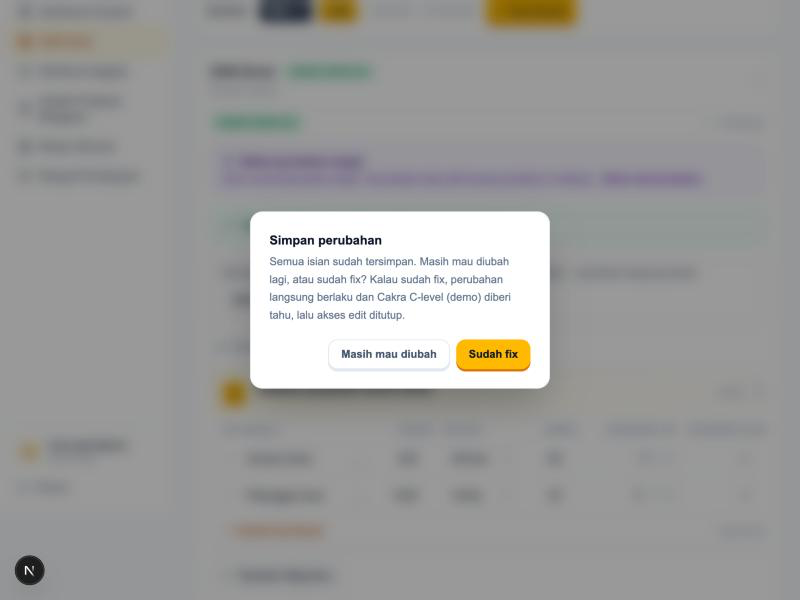
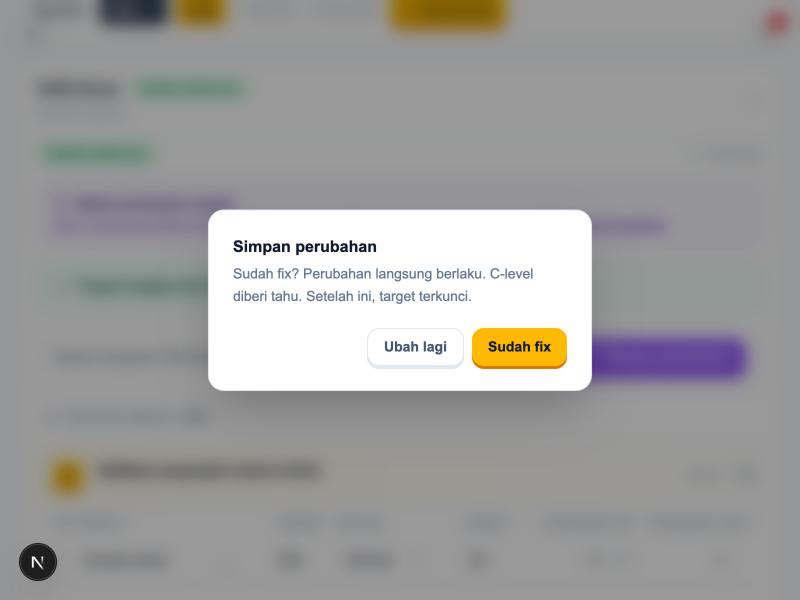
Laporan: kalimat simulasi & bukti M4-D dipersingkat, tanpa nama orang (22 Okt)

diff --git a/index.html b/index.html
@@ -145,7 +145,7 @@ dialog::backdrop { background: rgba(0,0,0,.7); }
 </div>
 <dialog id="zoom"><img alt=""></dialog>
 
-<script id="status" type="application/json">{"diperbarui":"2026-10-22T10:00:00+07:00","diperbaruiOleh":"Claude (pasang perubahan database M4-D ke dev)","proyek":"Redesign OKR Tracker Jakmall","rilis":{"dirilis":false,"teks":"Redesign belum dirilis; production masih versi lama. Semua hasil di bawah baru berjalan di lingkungan pengembangan (dev) dengan data contoh."},"ringkasan":"Alur inti OKR tersedia di lingkungan pengembangan. Codex mencoba dashboard, filter anggota, dan pergantian peran di Mac dengan data rekaan. Rilis belum siap: pemeriksaan akses belum lengkap, penyiapan akun perlu memisahkan identitas asli dari kode, dan keputusan cakupan serta pemeriksaan hosting masih menunggu.","sedangDikerjakan":{"judul":"Menu Persetujuan & izin ubah target selesai di lingkungan uji","detail":"Setelah minggu ke-8 Lead wajib minta izin C-level (dengan alasan) sebelum mengubah target. Setelah diizinkan dan Lead memilih \"Sudah fix\", perubahan langsung berlaku dan C-level cukup menandai \"Sudah dilihat\". Menu Persetujuan kini 3 tab. Sudah dicoba langsung dengan data rekaan. Langkah berikutnya: izin untuk memasang perubahan struktur database ke database dev bersama.","mulai":"2026-10-20"},"sudahBisa":["Lead menyusun target OKR divisi dan mengajukannya ke C-level.","C-level menyetujui target atau mengembalikannya dengan catatan; perubahan target setelah disetujui juga lewat persetujuan.","Lead membagikan OKR ke tiap anggota; pengiriman ditahan kalau ada anggota yang belum siap.","Anggota mengonfirmasi OKR-nya atau mengajukan perubahan; Lead menyetujui atau mengembalikan.","Anggota mengisi progress mingguan (tenggat Jumat 17.00 WIB); Lead memantau siapa yang sudah dan belum, serta bisa mengoreksi dengan alasan.","Notifikasi di aplikasi (desktop dan HP) untuk OKR dibagikan, usulan perubahan, keputusan, dan koreksi.","Lead mengajukan hasil akhir quarter setelah quarter selesai (waktu WIB); C-level menyetujui atau mengembalikan; rekap tahunan memakai skor dari quarter yang sudah final.","Setelah minggu ke-8, Lead minta izin C-level (dengan alasan) sebelum mengubah target; setelah diizinkan dan disimpan \"Sudah fix\", perubahan langsung berlaku dan C-level menandai \"Sudah dilihat\". Menu Persetujuan terbagi 3 tab."],"persentase":{"metode":"jumlah-hasil","catatan":"Persentase = hasil selesai dan teruji di dev ÷ seluruh hasil dalam daftar × 100%. Setiap hasil berbobot sama; bukan persentase waktu, beban kerja, atau kesiapan production. Pekerjaan berjalan belum mendapat nilai sebagian. Jika cakupan berubah, jumlah pembagi ikut berubah."},"hasil":[{"id":"m0","kode":"M0","nama":"Dashboard Quarter","manfaat":"Ringkasan capaian divisi per quarter: capaian per objective, capaian anggota, dan hal yang perlu perhatian.","kelompok":"v1","status":"selesai-dev","tanggal":"2026-09-04","bukti":[{"file":"bukti/lead-dashboard.png","ket":"Dashboard Quarter sisi Lead (data contoh)","preview":"preview/?view=lead-dashboard"},{"file":"bukti/qa-mac-20261020-dashboard.png","ket":"QA Mac 20 Okt: dashboard Lead, seluruh isi data rekaan","preview":"preview/?view=lead-dashboard"}]},{"id":"m1","kode":"M1","nama":"Fondasi aplikasi","manfaat":"Menu dan istilah yang konsisten, akses sesuai peran (Lead, Anggota, C-level, Admin), keamanan data antar divisi, cetak PDF dan ekspor Excel.","kelompok":"v1","status":"selesai-dev","tanggal":"2026-09-08","bukti":[]},{"id":"m2-min","kode":"M2","nama":"Data organisasi — minimum yang dibutuhkan","manfaat":"Daftar divisi baku, penanggung jawab (Lead) dan approver per divisi, serta pemetaan data lama ke struktur baru.","kelompok":"v1","status":"selesai-dev","tanggal":"2026-09-08","catatan":"Sisa pekerjaan data organisasi dicatat terpisah di bawah.","bukti":[]},{"id":"m3a","kode":"M3-A","nama":"Susun target divisi","manfaat":"Lead membuat objective dan key result dengan pengecekan bobot dan kelengkapan sebelum diajukan.","kelompok":"v1","status":"selesai-dev","tanggal":"2026-09-09","bukti":[{"file":"bukti/lead-okr-divisi.png","ket":"OKR Divisi yang sudah disetujui (data contoh)","preview":"preview/?view=lead-okr-divisi"}]},{"id":"m3b","kode":"M3-B","nama":"Ajukan target ke C-level","manfaat":"Target dikirim ke approver yang ditetapkan per divisi, lalu terkunci selama diperiksa.","kelompok":"v1","status":"selesai-dev","tanggal":"2026-09-09","bukti":[]},{"id":"m4a","kode":"M4-A","nama":"Persetujuan C-level","manfaat":"C-level menyetujui target atau mengembalikannya dengan catatan wajib.","kelompok":"v1","status":"selesai-dev","tanggal":"2026-09-09","bukti":[]},{"id":"m4bc","kode":"M4-B/C","nama":"Ajukan perubahan target yang sudah disetujui","manfaat":"Target yang sudah jadi patokan hanya bisa diubah lewat persetujuan C-level, dengan tampilan versi lama dan baru. Progress anggota tidak hilang.","kelompok":"v1","status":"selesai-dev","tanggal":"2026-09-12","bukti":[]},{"id":"m5a","kode":"M5-A","nama":"Bagikan OKR ke anggota","manfaat":"Lead mengirim OKR individu ke anggota; pengiriman ditahan seluruhnya kalau ada penerima yang belum siap.","kelompok":"v1","status":"selesai-dev","tanggal":"2026-09-21","bukti":[{"file":"bukti/lead-distribusi.png","ket":"Distribusi sudah dikirim dan terkunci (data contoh)","preview":"preview/?view=lead-distribusi"}]},{"id":"m5b","kode":"M5-B","nama":"Konfirmasi atau ajukan perubahan oleh anggota","manfaat":"Anggota menyetujui OKR-nya atau mengusulkan perubahan (termasuk KR pribadi \"Lainnya\"); Lead memutuskan.","kelompok":"v1","status":"selesai-dev","tanggal":"2026-09-27","bukti":[{"file":"bukti/anggota-okr.png","ket":"OKR Individu sisi anggota (data contoh)","preview":"preview/?view=anggota-okr"}]},{"id":"m5c","kode":"M5-C","nama":"Update progress mingguan","manfaat":"Anggota mengisi progress dan status tiap minggu; Lead memantau kelengkapan dan bisa mengoreksi dengan alasan yang tercatat.","kelompok":"v1","status":"selesai-dev","tanggal":"2026-09-28","catatan":"Laporan Bulanan dicatat terpisah. QA Mac 20 Okt: simpan angka tetap dihitung sebagai satu update dan tetap tercatat setelah reload (data rekaan). Alurnya sesuai yang dibutuhkan?","bukti":[{"file":"bukti/lead-workboard.png","ket":"Pemantauan update mingguan oleh Lead (data contoh)","preview":"preview/?view=lead-workboard"},{"file":"bukti/qa-mac-20261020-workboard.png","ket":"QA Mac 20 Okt: filter Budi menampilkan lima KR miliknya, data rekaan","preview":"preview/?view=lead-workboard"},{"file":"bukti/qa-mac-20261020-anggota.png","ket":"QA Mac 20 Okt: satu dari lima KR sudah diupdate, tetap tersimpan setelah reload, data rekaan","preview":"preview/?view=anggota-okr"}]},{"id":"rilis-v1","kode":"Rilis","nama":"Rilis redesign v1 ke production","manfaat":"Versi baru dipakai seluruh karyawan: backup data, pemindahan data bertahap, uji semua peran di production.","kelompok":"v1","status":"belum","catatan":"Rencana rilis revisi 3 sudah menutup catatan tinjauan. Baru dibuat (lokal, belum ditinjau, belum pernah dijalankan ke production): jalur aman untuk menjalankan skrip data di production yang hanya menulis rencana persis yang sudah direview. Belum siap rilis: daftar peserta HR belum ada, pemeriksaan hosting belum dilakukan, keputusan cakupan belum diambil.","bukti":[]},{"id":"m4d","kode":"M4-D","nama":"Menu Persetujuan 3 tab & izin ubah target setelah minggu ke-8","manfaat":"Setelah minggu ke-8, Lead tidak bisa diam-diam mengubah target: ia minta izin C-level dulu dengan alasan. Setelah diizinkan, Lead mengedit, menyimpan, dan perubahan langsung berlaku; C-level melihat sebelum/sesudah lalu menandai \"Sudah dilihat\". Menu Persetujuan kini terbagi 3 tab: Target, Perubahan, Hasil Akhir.","kelompok":"v1","status":"selesai-dev","catatan":"Teruji dengan data rekaan (tes otomatis + dicoba langsung di browser sebagai Lead dan C-level). Perubahan struktur database sudah dipasang di database dev bersama (22 Okt). Belum dirilis ke production.","bukti":[{"file":"bukti/m4d-1-lead-minta-izin.png","ket":"1. Lewat minggu ke-8: Lead mengisi alasan untuk minta izin ubah target (data rekaan; tautan simulasi menampilkan halaman OKR Divisi — simulasi menu Persetujuan belum ada)","preview":"preview/?view=lead-okr-divisi"},{"file":"bukti/m4d-2-clevel-izinkan.png","ket":"2. C-level melihat permintaan + alasan, lalu Izinkan atau Tolak (data rekaan; tautan simulasi menampilkan halaman OKR Divisi — simulasi menu Persetujuan belum ada)","preview":"preview/?view=lead-okr-divisi"},{"file":"bukti/m4d-3-lead-sudah-fix.png","ket":"3. Lead selesai mengedit: Simpan perubahan → pilih Masih mau diubah atau Sudah fix (data rekaan; tautan simulasi menampilkan halaman OKR Divisi — simulasi menu Persetujuan belum ada)","preview":"preview/?view=lead-okr-divisi"},{"file":"bukti/m4d-4-clevel-sebelum-sesudah.png","ket":"4. Perubahan langsung berlaku; C-level melihat sebelum/sesudah (target 500 → 400) dan menandai Sudah dilihat (data rekaan; tautan simulasi menampilkan halaman OKR Divisi — simulasi menu Persetujuan belum ada)","preview":"preview/?view=lead-okr-divisi"}],"tanggal":"2026-10-20","pertanyaan":"Alurnya sudah benar begini? (minta izin dengan alasan → C-level izinkan → Lead edit → Sudah fix → langsung berlaku, C-level cukup lihat)"},{"id":"m5d","kode":"M5-D","nama":"Notifikasi & pengingat","manfaat":"Lonceng notifikasi di aplikasi, email pendamping, dan pengingat update mingguan yang diatur Admin.","kelompok":"lengkap","status":"berjalan","catatan":"Status: pemicu siap, penjadwalan live belum diaktifkan. Kunci wajib, anti-kirim-dobel, dan pemulihan aman kalau proses terputus sudah diterapkan dan diuji di dev. Butuh pemicu terjadwal sungguhan di production (izin deploy).","bukti":[{"file":"bukti/lead-lonceng.png","ket":"Lonceng notifikasi Lead (data contoh)","preview":"preview/?view=lead-lonceng"},{"file":"bukti/anggota-hp-lonceng.png","ket":"Lonceng notifikasi di HP, sisi anggota (data contoh)","preview":"preview/?view=anggota-hp-lonceng"}]},{"id":"laporan-bulanan","kode":"Laporan","nama":"Laporan Bulanan","manfaat":"Ringkasan progress per bulan dari data mingguan, tanpa input ulang. Lead lihat lewat tab di halaman Update Progress Mingguan; C-level dan Admin lewat halaman baca-saja tersendiri.","kelompok":"lengkap","status":"selesai-dev","tanggal":"2026-09-29","catatan":"Sudah diuji di dev (19 tes otomatis + dicoba langsung sebagai Lead dan C-level, angkanya sama persis di kedua sisi). Belum tersedia di production.","bukti":[]},{"id":"m6a","kode":"M6-A","nama":"Ajukan hasil akhir quarter","manfaat":"Lead merangkum dan mengajukan hasil akhir quarter.","kelompok":"lengkap","status":"selesai-dev","bukti":[],"catatan":"Selesai di dev, belum production. Teruji di database pengembangan sungguhan dengan dua koneksi terpisah, akses antar peran, dan rekap tahunan. Belum diuji: performa untuk banyak divisi. Notifikasi saat hasil diajukan atau diputuskan belum dibuat. Cadangan/pemulihan database dev belum terverifikasi.","tanggal":"2026-10-08"},{"id":"m6b","kode":"M6-B","nama":"Finalisasi hasil oleh C-level","manfaat":"C-level menyetujui hasil akhir atau mengembalikannya dengan catatan.","kelompok":"lengkap","status":"selesai-dev","bukti":[],"catatan":"Selesai di dev, belum production. Teruji di database pengembangan sungguhan dengan dua koneksi terpisah, akses antar peran, dan rekap tahunan. Belum diuji: performa untuk banyak divisi. Notifikasi saat hasil diajukan atau diputuskan belum dibuat. Cadangan/pemulihan database dev belum terverifikasi.","tanggal":"2026-10-08"},{"id":"m6c","kode":"M6-C","nama":"Rekap tahunan","manfaat":"Capaian Q1–Q4 dalam satu tahun; skor tahunan dari quarter yang sudah final.","kelompok":"lengkap","status":"selesai-dev","bukti":[],"catatan":"Selesai di dev, belum production. Teruji di database pengembangan sungguhan dengan dua koneksi terpisah, akses antar peran, dan rekap tahunan. Belum diuji: performa untuk banyak divisi. Notifikasi saat hasil diajukan atau diputuskan belum dibuat. Cadangan/pemulihan database dev belum terverifikasi.","tanggal":"2026-10-08"},{"id":"m6d","kode":"M6-D","nama":"Laporan & ekspor untuk HR dan C-level","manfaat":"Tarikan progress mingguan HR, laporan per divisi/quarter, histori persetujuan dan perubahan.","kelompok":"lengkap","status":"selesai-dev","catatan":"Selesai di dev, belum production. Teruji di database pengembangan dengan data uji sintetis: status divisi di dasbor, ekspor dan cetak hasil final dari snapshot, rekap tahunan yang bisa diekspor, riwayat persetujuan terpusat, dan akses C-level baca saja ke semua divisi. Belum: notifikasi saat laporan tersedia, performa untuk banyak divisi (17 divisi di jaringan lambat ±18 detik).","bukti":[],"tanggal":"2026-10-08"},{"id":"m6e","kode":"M6-E","nama":"Perapian & validasi akhir","manfaat":"Menyatukan rumus dan format angka, membersihkan sisa sistem lama, uji ulang seluruh peran.","kelompok":"lengkap","status":"berjalan","catatan":"Selesai lokal: satu rumus skor divisi dipakai di semua halaman/laporan, semua persen tampil 1 desimal dengan koma (dicek di aplikasi dev). Draf aturan database dan penghapusan kolom lama sudah ditulis tetapi TIDAK diterapkan; pemeriksaan awal di dev menemukan data lama yang belum rapi, dan halaman admin masih memakai kolom lama. Butuh izin migrasi.","bukti":[]},{"id":"m2-sisa","kode":"M2","nama":"Data organisasi — sisa","manfaat":"Akun untuk seluruh peserta dan kerapian data lama yang belum terpetakan.","kelompok":"lengkap","status":"berjalan","bukti":[],"catatan":"Perencana akun semua peserta sudah ada (hanya menghasilkan rencana, tidak membuat akun; 9 tes). Menunggu daftar peserta resmi dari HR."}],"kendala":[{"judul":"Demo interaktif: teruji lokal, belum dipublikasikan","detail":"Teruji lokal; belum dipublikasikan; server uji sudah dihentikan. Untuk menayangkan butuh keputusan hosting (paket berbayar ±$20/bulan karena untuk keperluan perusahaan), database demo terpisah, project deploy terpisah, dan push kode demo.","jenis":"izin"},{"judul":"Pengingat otomatis belum berjalan sendiri","detail":"Kode dan pengamanannya sudah diterapkan dan diuji di dev. Pengingat mingguan tetap butuh pemicu terjadwal sungguhan di server production; pembuatannya butuh izin deploy.","jenis":"izin"},{"judul":"Pemeriksaan hosting belum selesai","detail":"Kode pengaman sudah diperbaiki dan tesnya lulus; pemilik hosting tetap perlu memastikan pemisahan lingkungan sebelum rilis.","jenis":"izin"}],"keputusanDibutuhkan":["Demo interaktif: setuju hosting berbayar (±$20/bulan), resource baru, push repo demo, dan deploy? Belum ada yang dibuat.","Aturan pasti \"KR merah\" dan jadwal ringkasan pengingat (dari manajemen)."],"langkahBerikutnya":["Pemilik proyek: cek alur M4-D di website report (4 gambar) — cukup jawab \"alurnya benar\" atau sebutkan yang perlu diubah.","Pemilik hosting memeriksa pengaturan; daftar peserta resmi disiapkan HR. Rilis tetap perlu izin per tahap."],"commitAplikasi":"742b1b1","olehDefault":"Lathisya"}</script>
+<script id="status" type="application/json">{"diperbarui":"2026-10-22T10:00:00+07:00","diperbaruiOleh":"Claude (pasang perubahan database M4-D ke dev)","proyek":"Redesign OKR Tracker Jakmall","rilis":{"dirilis":false,"teks":"Redesign belum dirilis; production masih versi lama. Semua hasil di bawah baru berjalan di lingkungan pengembangan (dev) dengan data contoh."},"ringkasan":"Alur inti OKR tersedia di lingkungan pengembangan. Codex mencoba dashboard, filter anggota, dan pergantian peran di Mac dengan data rekaan. Rilis belum siap: pemeriksaan akses belum lengkap, penyiapan akun perlu memisahkan identitas asli dari kode, dan keputusan cakupan serta pemeriksaan hosting masih menunggu.","sedangDikerjakan":{"judul":"Menu Persetujuan & izin ubah target selesai di lingkungan uji","detail":"Setelah minggu ke-8 Lead wajib minta izin C-level (dengan alasan) sebelum mengubah target. Setelah diizinkan dan Lead memilih \"Sudah fix\", perubahan langsung berlaku dan C-level cukup menandai \"Sudah dilihat\". Menu Persetujuan kini 3 tab. Sudah dicoba langsung dengan data rekaan. Langkah berikutnya: izin untuk memasang perubahan struktur database ke database dev bersama.","mulai":"2026-10-20"},"sudahBisa":["Lead menyusun target OKR divisi dan mengajukannya ke C-level.","C-level menyetujui target atau mengembalikannya dengan catatan; perubahan target setelah disetujui juga lewat persetujuan.","Lead membagikan OKR ke tiap anggota; pengiriman ditahan kalau ada anggota yang belum siap.","Anggota mengonfirmasi OKR-nya atau mengajukan perubahan; Lead menyetujui atau mengembalikan.","Anggota mengisi progress mingguan (tenggat Jumat 17.00 WIB); Lead memantau siapa yang sudah dan belum, serta bisa mengoreksi dengan alasan.","Notifikasi di aplikasi (desktop dan HP) untuk OKR dibagikan, usulan perubahan, keputusan, dan koreksi.","Lead mengajukan hasil akhir quarter setelah quarter selesai (waktu WIB); C-level menyetujui atau mengembalikan; rekap tahunan memakai skor dari quarter yang sudah final.","Setelah minggu ke-8, Lead minta izin C-level (dengan alasan) sebelum mengubah target; setelah diizinkan dan disimpan \"Sudah fix\", perubahan langsung berlaku dan C-level menandai \"Sudah dilihat\". Menu Persetujuan terbagi 3 tab."],"persentase":{"metode":"jumlah-hasil","catatan":"Persentase = hasil selesai dan teruji di dev ÷ seluruh hasil dalam daftar × 100%. Setiap hasil berbobot sama; bukan persentase waktu, beban kerja, atau kesiapan production. Pekerjaan berjalan belum mendapat nilai sebagian. Jika cakupan berubah, jumlah pembagi ikut berubah."},"hasil":[{"id":"m0","kode":"M0","nama":"Dashboard Quarter","manfaat":"Ringkasan capaian divisi per quarter: capaian per objective, capaian anggota, dan hal yang perlu perhatian.","kelompok":"v1","status":"selesai-dev","tanggal":"2026-09-04","bukti":[{"file":"bukti/lead-dashboard.png","ket":"Dashboard Quarter sisi Lead (data contoh)","preview":"preview/?view=lead-dashboard"},{"file":"bukti/qa-mac-20261020-dashboard.png","ket":"QA Mac 20 Okt: dashboard Lead, seluruh isi data rekaan","preview":"preview/?view=lead-dashboard"}]},{"id":"m1","kode":"M1","nama":"Fondasi aplikasi","manfaat":"Menu dan istilah yang konsisten, akses sesuai peran (Lead, Anggota, C-level, Admin), keamanan data antar divisi, cetak PDF dan ekspor Excel.","kelompok":"v1","status":"selesai-dev","tanggal":"2026-09-08","bukti":[]},{"id":"m2-min","kode":"M2","nama":"Data organisasi — minimum yang dibutuhkan","manfaat":"Daftar divisi baku, penanggung jawab (Lead) dan approver per divisi, serta pemetaan data lama ke struktur baru.","kelompok":"v1","status":"selesai-dev","tanggal":"2026-09-08","catatan":"Sisa pekerjaan data organisasi dicatat terpisah di bawah.","bukti":[]},{"id":"m3a","kode":"M3-A","nama":"Susun target divisi","manfaat":"Lead membuat objective dan key result dengan pengecekan bobot dan kelengkapan sebelum diajukan.","kelompok":"v1","status":"selesai-dev","tanggal":"2026-09-09","bukti":[{"file":"bukti/lead-okr-divisi.png","ket":"OKR Divisi yang sudah disetujui (data contoh)","preview":"preview/?view=lead-okr-divisi"}]},{"id":"m3b","kode":"M3-B","nama":"Ajukan target ke C-level","manfaat":"Target dikirim ke approver yang ditetapkan per divisi, lalu terkunci selama diperiksa.","kelompok":"v1","status":"selesai-dev","tanggal":"2026-09-09","bukti":[]},{"id":"m4a","kode":"M4-A","nama":"Persetujuan C-level","manfaat":"C-level menyetujui target atau mengembalikannya dengan catatan wajib.","kelompok":"v1","status":"selesai-dev","tanggal":"2026-09-09","bukti":[]},{"id":"m4bc","kode":"M4-B/C","nama":"Ajukan perubahan target yang sudah disetujui","manfaat":"Target yang sudah jadi patokan hanya bisa diubah lewat persetujuan C-level, dengan tampilan versi lama dan baru. Progress anggota tidak hilang.","kelompok":"v1","status":"selesai-dev","tanggal":"2026-09-12","bukti":[]},{"id":"m5a","kode":"M5-A","nama":"Bagikan OKR ke anggota","manfaat":"Lead mengirim OKR individu ke anggota; pengiriman ditahan seluruhnya kalau ada penerima yang belum siap.","kelompok":"v1","status":"selesai-dev","tanggal":"2026-09-21","bukti":[{"file":"bukti/lead-distribusi.png","ket":"Distribusi sudah dikirim dan terkunci (data contoh)","preview":"preview/?view=lead-distribusi"}]},{"id":"m5b","kode":"M5-B","nama":"Konfirmasi atau ajukan perubahan oleh anggota","manfaat":"Anggota menyetujui OKR-nya atau mengusulkan perubahan (termasuk KR pribadi \"Lainnya\"); Lead memutuskan.","kelompok":"v1","status":"selesai-dev","tanggal":"2026-09-27","bukti":[{"file":"bukti/anggota-okr.png","ket":"OKR Individu sisi anggota (data contoh)","preview":"preview/?view=anggota-okr"}]},{"id":"m5c","kode":"M5-C","nama":"Update progress mingguan","manfaat":"Anggota mengisi progress dan status tiap minggu; Lead memantau kelengkapan dan bisa mengoreksi dengan alasan yang tercatat.","kelompok":"v1","status":"selesai-dev","tanggal":"2026-09-28","catatan":"Laporan Bulanan dicatat terpisah. QA Mac 20 Okt: simpan angka tetap dihitung sebagai satu update dan tetap tercatat setelah reload (data rekaan). Alurnya sesuai yang dibutuhkan?","bukti":[{"file":"bukti/lead-workboard.png","ket":"Pemantauan update mingguan oleh Lead (data contoh)","preview":"preview/?view=lead-workboard"},{"file":"bukti/qa-mac-20261020-workboard.png","ket":"QA Mac 20 Okt: filter Budi menampilkan lima KR miliknya, data rekaan","preview":"preview/?view=lead-workboard"},{"file":"bukti/qa-mac-20261020-anggota.png","ket":"QA Mac 20 Okt: satu dari lima KR sudah diupdate, tetap tersimpan setelah reload, data rekaan","preview":"preview/?view=anggota-okr"}]},{"id":"rilis-v1","kode":"Rilis","nama":"Rilis redesign v1 ke production","manfaat":"Versi baru dipakai seluruh karyawan: backup data, pemindahan data bertahap, uji semua peran di production.","kelompok":"v1","status":"belum","catatan":"Rencana rilis revisi 3 sudah menutup catatan tinjauan. Baru dibuat (lokal, belum ditinjau, belum pernah dijalankan ke production): jalur aman untuk menjalankan skrip data di production yang hanya menulis rencana persis yang sudah direview. Belum siap rilis: daftar peserta HR belum ada, pemeriksaan hosting belum dilakukan, keputusan cakupan belum diambil.","bukti":[]},{"id":"m4d","kode":"M4-D","nama":"Menu Persetujuan 3 tab & izin ubah target","manfaat":"Lewat minggu ke-8, Lead harus minta izin C-level dulu untuk mengubah target. Setelah diizinkan, Lead mengubah lalu klik Sudah fix — langsung berlaku. C-level cukup menandai Sudah dilihat.","kelompok":"v1","status":"selesai-dev","catatan":"Dicoba dengan data contoh. Sudah terpasang di database dev. Belum dirilis.","bukti":[{"file":"bukti/m4d-1-lead-minta-izin.png","ket":"1. Lead minta izin + alasan (data contoh)","preview":"preview/?view=lead-okr-divisi"},{"file":"bukti/m4d-2-clevel-izinkan.png","ket":"2. C-level mengizinkan atau menolak (data contoh)","preview":"preview/?view=lead-okr-divisi"},{"file":"bukti/m4d-3-lead-sudah-fix.png","ket":"3. Lead selesai mengubah, pilih Sudah fix (data contoh)","preview":"preview/?view=lead-okr-divisi"},{"file":"bukti/m4d-4-clevel-sebelum-sesudah.png","ket":"4. Langsung berlaku; C-level melihat sebelum/sesudah (data contoh)","preview":"preview/?view=lead-okr-divisi"}],"tanggal":"2026-10-20","pertanyaan":"Alurnya sudah benar begini?"},{"id":"m5d","kode":"M5-D","nama":"Notifikasi & pengingat","manfaat":"Lonceng notifikasi di aplikasi, email pendamping, dan pengingat update mingguan yang diatur Admin.","kelompok":"lengkap","status":"berjalan","catatan":"Status: pemicu siap, penjadwalan live belum diaktifkan. Kunci wajib, anti-kirim-dobel, dan pemulihan aman kalau proses terputus sudah diterapkan dan diuji di dev. Butuh pemicu terjadwal sungguhan di production (izin deploy).","bukti":[{"file":"bukti/lead-lonceng.png","ket":"Lonceng notifikasi Lead (data contoh)","preview":"preview/?view=lead-lonceng"},{"file":"bukti/anggota-hp-lonceng.png","ket":"Lonceng notifikasi di HP, sisi anggota (data contoh)","preview":"preview/?view=anggota-hp-lonceng"}]},{"id":"laporan-bulanan","kode":"Laporan","nama":"Laporan Bulanan","manfaat":"Ringkasan progress per bulan dari data mingguan, tanpa input ulang. Lead lihat lewat tab di halaman Update Progress Mingguan; C-level dan Admin lewat halaman baca-saja tersendiri.","kelompok":"lengkap","status":"selesai-dev","tanggal":"2026-09-29","catatan":"Sudah diuji di dev (19 tes otomatis + dicoba langsung sebagai Lead dan C-level, angkanya sama persis di kedua sisi). Belum tersedia di production.","bukti":[]},{"id":"m6a","kode":"M6-A","nama":"Ajukan hasil akhir quarter","manfaat":"Lead merangkum dan mengajukan hasil akhir quarter.","kelompok":"lengkap","status":"selesai-dev","bukti":[],"catatan":"Selesai di dev, belum production. Teruji di database pengembangan sungguhan dengan dua koneksi terpisah, akses antar peran, dan rekap tahunan. Belum diuji: performa untuk banyak divisi. Notifikasi saat hasil diajukan atau diputuskan belum dibuat. Cadangan/pemulihan database dev belum terverifikasi.","tanggal":"2026-10-08"},{"id":"m6b","kode":"M6-B","nama":"Finalisasi hasil oleh C-level","manfaat":"C-level menyetujui hasil akhir atau mengembalikannya dengan catatan.","kelompok":"lengkap","status":"selesai-dev","bukti":[],"catatan":"Selesai di dev, belum production. Teruji di database pengembangan sungguhan dengan dua koneksi terpisah, akses antar peran, dan rekap tahunan. Belum diuji: performa untuk banyak divisi. Notifikasi saat hasil diajukan atau diputuskan belum dibuat. Cadangan/pemulihan database dev belum terverifikasi.","tanggal":"2026-10-08"},{"id":"m6c","kode":"M6-C","nama":"Rekap tahunan","manfaat":"Capaian Q1–Q4 dalam satu tahun; skor tahunan dari quarter yang sudah final.","kelompok":"lengkap","status":"selesai-dev","bukti":[],"catatan":"Selesai di dev, belum production. Teruji di database pengembangan sungguhan dengan dua koneksi terpisah, akses antar peran, dan rekap tahunan. Belum diuji: performa untuk banyak divisi. Notifikasi saat hasil diajukan atau diputuskan belum dibuat. Cadangan/pemulihan database dev belum terverifikasi.","tanggal":"2026-10-08"},{"id":"m6d","kode":"M6-D","nama":"Laporan & ekspor untuk HR dan C-level","manfaat":"Tarikan progress mingguan HR, laporan per divisi/quarter, histori persetujuan dan perubahan.","kelompok":"lengkap","status":"selesai-dev","catatan":"Selesai di dev, belum production. Teruji di database pengembangan dengan data uji sintetis: status divisi di dasbor, ekspor dan cetak hasil final dari snapshot, rekap tahunan yang bisa diekspor, riwayat persetujuan terpusat, dan akses C-level baca saja ke semua divisi. Belum: notifikasi saat laporan tersedia, performa untuk banyak divisi (17 divisi di jaringan lambat ±18 detik).","bukti":[],"tanggal":"2026-10-08"},{"id":"m6e","kode":"M6-E","nama":"Perapian & validasi akhir","manfaat":"Menyatukan rumus dan format angka, membersihkan sisa sistem lama, uji ulang seluruh peran.","kelompok":"lengkap","status":"berjalan","catatan":"Selesai lokal: satu rumus skor divisi dipakai di semua halaman/laporan, semua persen tampil 1 desimal dengan koma (dicek di aplikasi dev). Draf aturan database dan penghapusan kolom lama sudah ditulis tetapi TIDAK diterapkan; pemeriksaan awal di dev menemukan data lama yang belum rapi, dan halaman admin masih memakai kolom lama. Butuh izin migrasi.","bukti":[]},{"id":"m2-sisa","kode":"M2","nama":"Data organisasi — sisa","manfaat":"Akun untuk seluruh peserta dan kerapian data lama yang belum terpetakan.","kelompok":"lengkap","status":"berjalan","bukti":[],"catatan":"Perencana akun semua peserta sudah ada (hanya menghasilkan rencana, tidak membuat akun; 9 tes). Menunggu daftar peserta resmi dari HR."}],"kendala":[{"judul":"Demo interaktif: teruji lokal, belum dipublikasikan","detail":"Teruji lokal; belum dipublikasikan; server uji sudah dihentikan. Untuk menayangkan butuh keputusan hosting (paket berbayar ±$20/bulan karena untuk keperluan perusahaan), database demo terpisah, project deploy terpisah, dan push kode demo.","jenis":"izin"},{"judul":"Pengingat otomatis belum berjalan sendiri","detail":"Kode dan pengamanannya sudah diterapkan dan diuji di dev. Pengingat mingguan tetap butuh pemicu terjadwal sungguhan di server production; pembuatannya butuh izin deploy.","jenis":"izin"},{"judul":"Pemeriksaan hosting belum selesai","detail":"Kode pengaman sudah diperbaiki dan tesnya lulus; pemilik hosting tetap perlu memastikan pemisahan lingkungan sebelum rilis.","jenis":"izin"}],"keputusanDibutuhkan":["Demo interaktif: setuju hosting berbayar (±$20/bulan), resource baru, push repo demo, dan deploy? Belum ada yang dibuat.","Aturan pasti \"KR merah\" dan jadwal ringkasan pengingat (dari manajemen)."],"langkahBerikutnya":["Pemilik proyek: cek alur M4-D di website report (4 gambar) — cukup jawab \"alurnya benar\" atau sebutkan yang perlu diubah.","Pemilik hosting memeriksa pengaturan; daftar peserta resmi disiapkan HR. Rilis tetap perlu izin per tahap."],"commitAplikasi":"742b1b1","olehDefault":"Lathisya"}</script>
 <script>
 const S = JSON.parse(document.getElementById("status").textContent);
 const $ = (id) => document.getElementById(id);

diff --git a/preview/index.html b/preview/index.html
@@ -12,19 +12,19 @@
 <body>
 <div class="wrap">
   <div class="top"><div><div class="eyebrow">Simulasi interaktif · data contoh</div><h1 id="title">Preview OKR</h1><div class="hint" id="subtitle"></div></div><a class="back" href="../">← Kembali ke laporan progres</a></div>
-  <div class="notice"><b>Preview simulasi.</b> Tombol di halaman ini memperagakan alur. Tidak ada akun, penyimpanan, atau koneksi ke database OKR. Aplikasi yang dipakai karyawan belum online.</div>
-  <div class="shell"><nav class="nav" id="nav"><h2>Pilih tampilan</h2></nav><main class="content"><section class="panel"><div class="row"><div><div class="eyebrow" id="module"></div><div class="metric" id="headline"></div></div><span class="badge" id="role"></span></div><p id="description"></p><div class="steps" id="steps"></div><div class="feedback" id="feedback" role="status" aria-live="polite"></div><div class="demo-box" id="demo"></div></section><section class="picture"><h2>Bukti tampilan dari aplikasi dev</h2><div class="hint" id="caption"></div><img id="shot" alt="Bukti tampilan akun contoh"><p class="tiny">Gambar adalah bukti dari lingkungan pengembangan. Interaksi simulasi ada pada panel di atas.</p></section></main></div>
+  <div class="notice">Ini simulasi dengan data contoh. Klik tombol untuk mencoba alurnya. Perubahan tidak disimpan.</div>
+  <div class="shell"><nav class="nav" id="nav"><h2>Pilih tampilan</h2></nav><main class="content"><section class="panel"><div class="row"><div><div class="eyebrow" id="module"></div><div class="metric" id="headline"></div></div><span class="badge" id="role"></span></div><p id="description"></p><div class="steps" id="steps"></div><div class="feedback" id="feedback" role="status" aria-live="polite"></div><div class="demo-box" id="demo"></div></section><section class="picture"><h2>Bukti tampilan dari aplikasi dev</h2><div class="hint" id="caption"></div><img id="shot" alt="Bukti tampilan akun contoh"><p class="tiny">Gambar dari aplikasi uji. Coba simulasinya di atas.</p></section></main></div>
   <footer>Halaman ini memuat data contoh di browser saja. Tutup atau muat ulang untuk mengulang simulasi.</footer>
 </div>
 <script>
 const views = [
   {id: "lead-dashboard", label: "Dashboard Lead", code: "M0", role: "Lead · Demo M5", headline: "Capaian divisi Q4", caption: "Dashboard Quarter sisi Lead", shot: "lead-dashboard.png", description: "Pilih quarter untuk melihat ringkasan divisi dan hal yang perlu diperhatikan.", steps: ["Q4 2026", "Q3 2026"], feedback: ["Ringkasan Q4: 2 objective, 3 anggota, pembaruan mingguan terlihat.", "Quarter ini belum punya hasil final dalam simulasi."], demo: ["Objective aktif", "2", "Anggota", "3", "Update pekan ini", "3 dari 3 KR wajib"]},
-  {id: "lead-okr-divisi", label: "Target divisi", code: "M3–M4", role: "Lead · Demo M5", headline: "Target Q4 2026", caption: "OKR Divisi sisi Lead", shot: "lead-okr-divisi.png", description: "Lihat perbedaan draft, pengajuan, dan persetujuan. Ini hanya simulasi status.", steps: ["Draft", "Ajukan Target", "Disetujui"], feedback: ["Draft bisa diperiksa sebelum diajukan.", "Target diajukan: kolom terkunci sambil menunggu C-level.", "Target disetujui: patokan resmi terkunci."], demo: ["Objective", "Peningkatan layanan", "Key Result", "Respons tepat waktu", "Bobot", "100%"]},
-  {id: "lead-distribusi", label: "Distribusi anggota", code: "M5-A", role: "Lead · Demo M5", headline: "Bagikan OKR ke anggota", caption: "Distribusi anggota sisi Lead", shot: "lead-distribusi.png", description: "Coba gerbang kesiapan: pengiriman ditahan jika seorang anggota belum siap masuk aplikasi.", steps: ["Ada yang belum siap", "Semua siap", "Kirim ke Anggota"], feedback: ["Pengiriman ditahan seluruhnya. Satu anggota belum punya akses aktif.", "Semua penerima siap dan bobot individu 100%.", "Paket dibagikan bersama dan tampilan Lead terkunci."], demo: ["Anggota contoh", "Budi, Sari", "Paket", "1 pengiriman bersama", "Status", "Menunggu kesiapan"]},
-  {id: "anggota-okr", label: "OKR anggota", code: "M5-B", role: "Anggota · Demo M5", headline: "OKR Individu Q4", caption: "OKR Individu sisi anggota", shot: "anggota-okr.png", description: "Lihat alur menerima paket, mengonfirmasi, atau mengusulkan perubahan.", steps: ["Belum dibagikan", "Dibagikan", "Konfirmasi", "Ajukan Perubahan"], feedback: ["OKR belum dibagikan oleh Lead.", "Paket OKR tersedia untuk dibaca anggota.", "Anggota mengonfirmasi paket OKR.", "Usulan perubahan dikirim ke Lead untuk diperiksa."], demo: ["Key Result", "Respons layanan", "Target", "100%", "Bagian individu", "Dalam bobot 100%"]},
-  {id: "lead-workboard", label: "Progress mingguan", code: "M5-C", role: "Lead · Demo M5", headline: "Update pekan ini", caption: "Workboard sisi Lead", shot: "lead-workboard.png", description: "Pilih anggota untuk melihat status, lalu coba koreksi dengan alasan. Nilai pada preview hanya berubah di browser ini.", steps: ["Budi · sesuai rencana", "Sari · berisiko", "Koreksi dengan alasan"], feedback: ["Budi: 3 dari 3 KR wajib sudah diupdate.", "Sari: satu KR berisiko; Lead bisa melihat catatannya.", "Koreksi dicatat dengan alasan dan ditunjukkan kepada anggota."], demo: ["Kelengkapan", "3 dari 3 KR wajib", "Perlu perhatian", "1 status berisiko", "Batas rutin", "Jumat 17.00 WIB"]},
-  {id: "lead-lonceng", label: "Notifikasi Lead", code: "M5-D", role: "Lead · Demo M5", headline: "Pemberitahuan", caption: "Lonceng notifikasi sisi Lead", shot: "lead-lonceng.png", description: "Buka contoh notifikasi dan lihat ke mana Lead diarahkan.", steps: ["Belum dibaca (1)", "Buka usulan anggota", "Sudah dibaca"], feedback: ["Ada satu usulan perubahan dari anggota.", "Usulan anggota terbuka untuk ditinjau Lead.", "Penanda belum dibaca hilang setelah dibuka."], demo: ["Dari", "Sari · anggota", "Kejadian", "Usulan perubahan OKR", "Tujuan", "Halaman keputusan Lead"]},
-  {id: "anggota-hp-lonceng", label: "Notifikasi HP", code: "M5-D", role: "Anggota · Demo M5", headline: "Pemberitahuan di HP", caption: "Lonceng notifikasi sisi anggota di HP", shot: "anggota-hp-lonceng.png", description: "Coba alur koreksi Lead diterima oleh anggota melalui notifikasi.", steps: ["Belum dibaca (1)", "Buka koreksi", "Sudah dibaca"], feedback: ["Koreksi Lead muncul sebagai notifikasi belum dibaca.", "Anggota melihat angka dan alasan koreksi di OKR Individu.", "Penanda notifikasi hilang setelah dibuka."], demo: ["Dari", "Lead · Demo M5", "Kejadian", "Koreksi progress", "Alasan", "Tercatat dalam histori"]}
+  {id: "lead-okr-divisi", label: "Target divisi", code: "M3–M4", role: "Lead · Demo M5", headline: "Target Q4 2026", caption: "OKR Divisi sisi Lead", shot: "lead-okr-divisi.png", description: "Klik tombol untuk melihat tiap status.", steps: ["Draft", "Ajukan Target", "Disetujui"], feedback: ["Masih draft — belum dikirim ke C-level.", "Menunggu persetujuan C-level. Target belum bisa diubah.", "Target disetujui. Untuk mengubahnya, klik Ajukan Perubahan."], demo: ["Objective", "Peningkatan layanan", "Key Result", "Respons tepat waktu", "Bobot", "100%"]},
+  {id: "lead-distribusi", label: "Distribusi anggota", code: "M5-A", role: "Lead · Demo M5", headline: "Bagikan OKR ke anggota", caption: "Distribusi anggota sisi Lead", shot: "lead-distribusi.png", description: "OKR baru bisa dikirim kalau semua anggota punya akses.", steps: ["Ada yang belum siap", "Semua siap", "Kirim ke Anggota"], feedback: ["Belum bisa dikirim. Ada anggota yang belum punya akses.", "Siap dikirim. Semua anggota punya akses dan bobot tiap anggota sudah 100%.", "OKR terkirim ke semua anggota. Lead belum bisa mengubahnya."], demo: ["Anggota contoh", "Anggota 1, Anggota 2", "Paket", "1 pengiriman bersama", "Status", "Menunggu kesiapan"]},
+  {id: "anggota-okr", label: "OKR anggota", code: "M5-B", role: "Anggota · Demo M5", headline: "OKR Individu Q4", caption: "OKR Individu sisi anggota", shot: "anggota-okr.png", description: "Coba terima OKR atau ajukan perubahan.", steps: ["Belum dibagikan", "Dibagikan", "Konfirmasi", "Ajukan Perubahan"], feedback: ["OKR belum dibagikan oleh Lead.", "OKR dari Lead sudah bisa dilihat.", "OKR sudah dikonfirmasi.", "Usulan perubahan terkirim ke Lead."], demo: ["Key Result", "Respons layanan", "Target", "100%", "Bagian individu", "Dalam bobot 100%"]},
+  {id: "lead-workboard", label: "Progress mingguan", code: "M5-C", role: "Lead · Demo M5", headline: "Update pekan ini", caption: "Workboard sisi Lead", shot: "lead-workboard.png", description: "Pilih anggota untuk melihat progresnya. Coba koreksi angka dan isi alasannya.", steps: ["Anggota 1 · sesuai rencana", "Anggota 2 · berisiko", "Koreksi dengan alasan"], feedback: ["Anggota 1: semua KR wajib sudah diperbarui.", "Anggota 2: ada 1 KR berisiko. Buka catatannya.", "Anggota bisa melihat koreksi dan alasannya."], demo: ["Kelengkapan", "3 dari 3 KR wajib", "Perlu perhatian", "1 status berisiko", "Batas rutin", "Jumat 17.00 WIB"]},
+  {id: "lead-lonceng", label: "Notifikasi Lead", code: "M5-D", role: "Lead · Demo M5", headline: "Pemberitahuan", caption: "Lonceng notifikasi sisi Lead", shot: "lead-lonceng.png", description: "Buka contoh notifikasi dan lihat ke mana Lead diarahkan.", steps: ["Belum dibaca (1)", "Buka usulan anggota", "Sudah dibaca"], feedback: ["Ada satu usulan perubahan dari anggota.", "Usulan terbuka. Lead bisa menyetujui atau mengembalikannya.", "Penanda belum dibaca hilang setelah dibuka."], demo: ["Dari", "Anggota", "Kejadian", "Usulan perubahan OKR", "Tujuan", "Halaman keputusan Lead"]},
+  {id: "anggota-hp-lonceng", label: "Notifikasi HP", code: "M5-D", role: "Anggota · Demo M5", headline: "Pemberitahuan di HP", caption: "Lonceng notifikasi sisi anggota di HP", shot: "anggota-hp-lonceng.png", description: "Buka notifikasi untuk melihat koreksi dari Lead.", steps: ["Belum dibaca (1)", "Buka koreksi", "Sudah dibaca"], feedback: ["Ada koreksi dari Lead.", "Anggota melihat angka dan alasan koreksi di OKR Individu.", "Penanda notifikasi hilang setelah dibuka."], demo: ["Dari", "Lead · Demo M5", "Kejadian", "Koreksi progress", "Alasan", "Tercatat dalam histori"]}
 ];
 const $ = id => document.getElementById(id);
 const esc = value => String(value).replace(/[&<>\"]/g, c => ({'&':'&amp;','<':'&lt;','>':'&gt;','"':'&quot;'}[c]));
